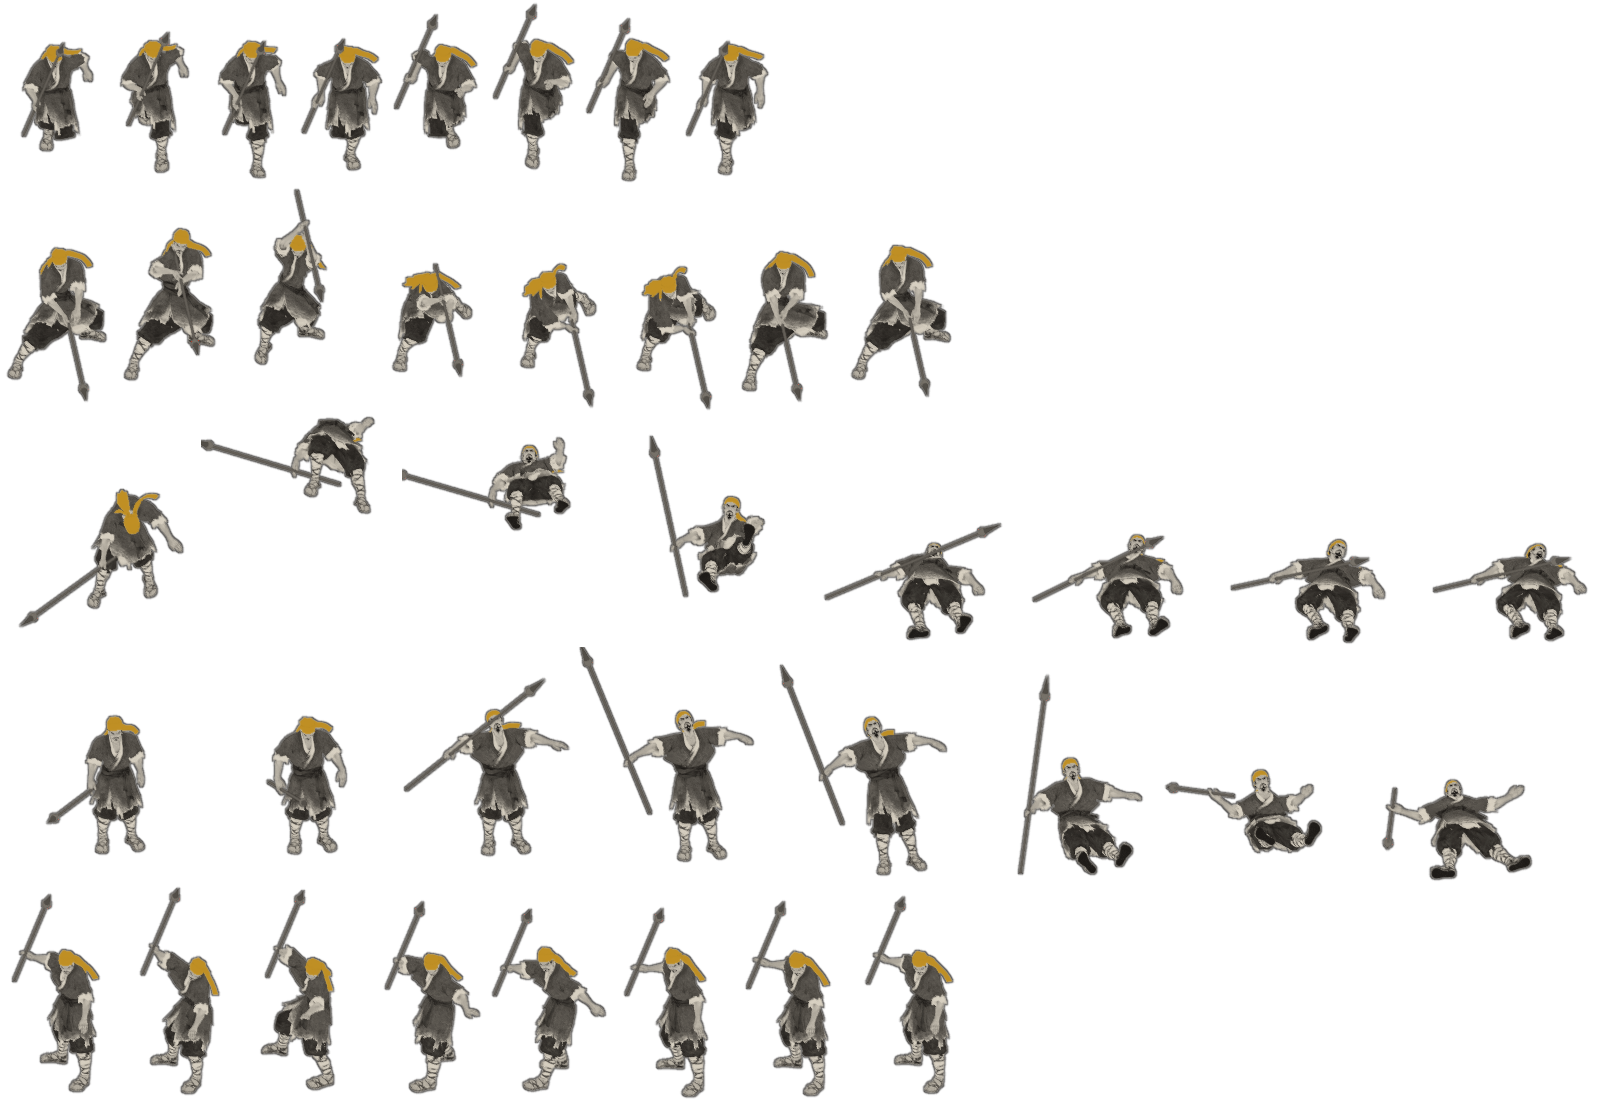
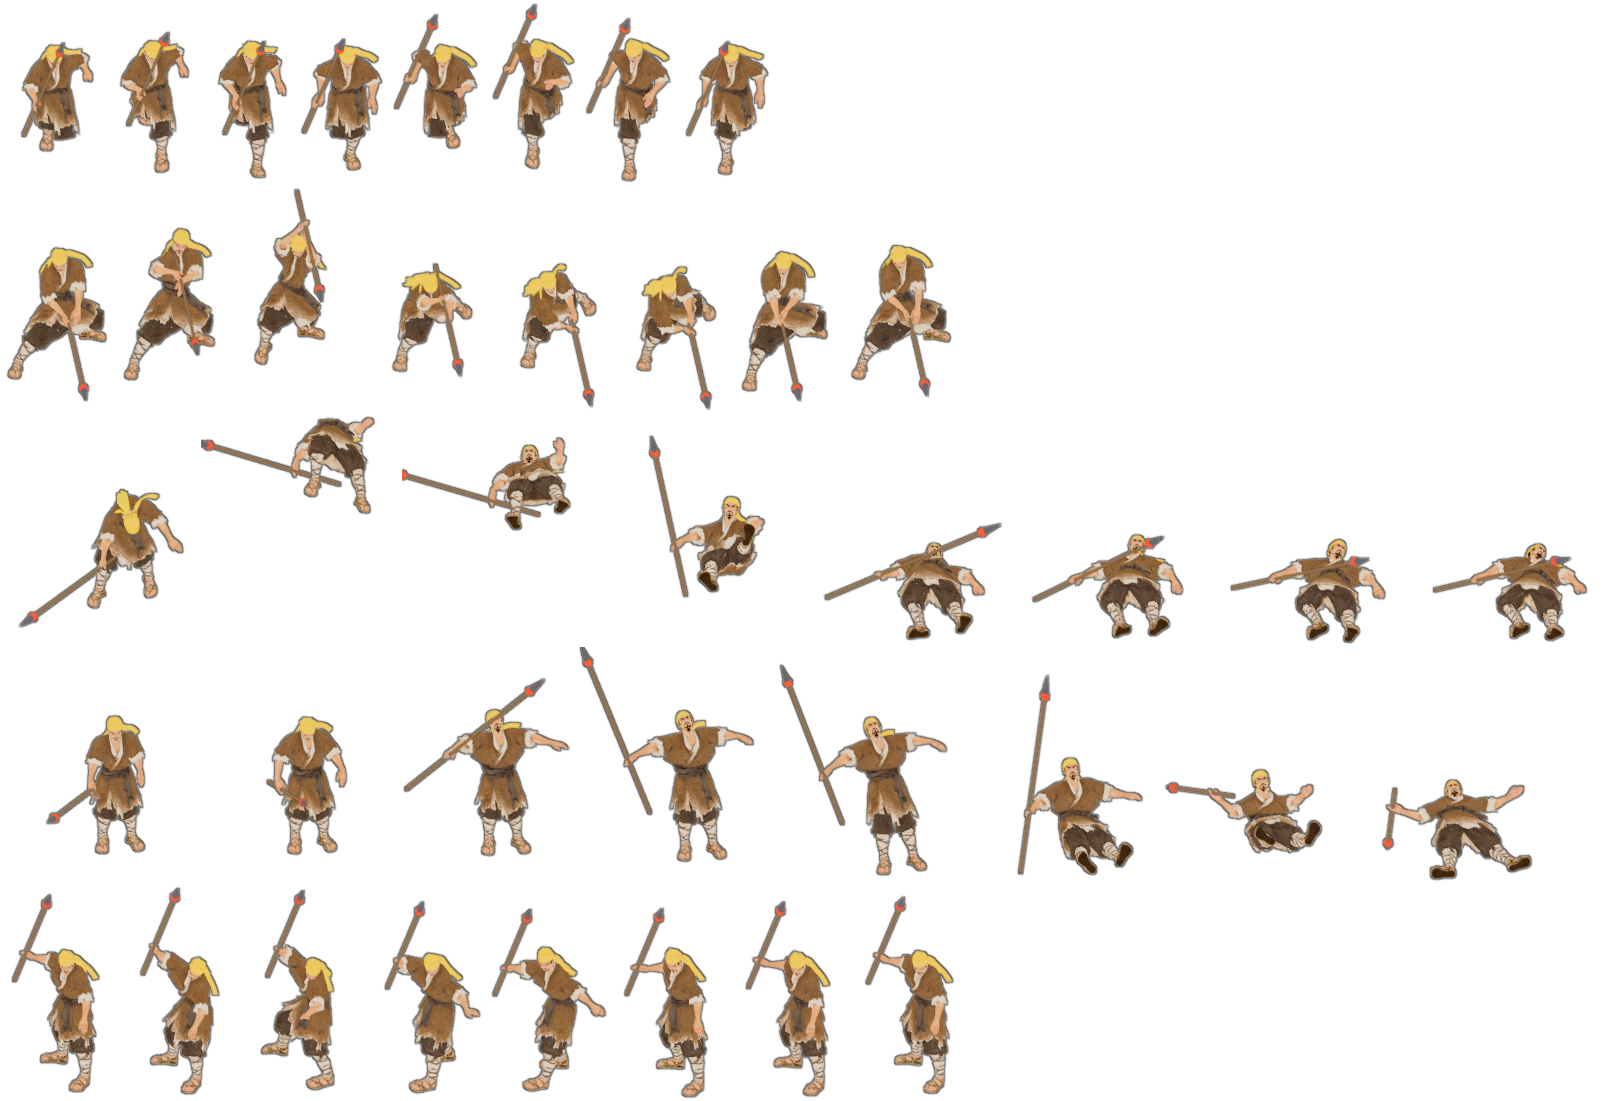
去水墨：11种兵种全彩重上色，黑墨烟改紫金妖气、青龙斩墨浪调亮

diff --git a/原型/墨流.js b/原型/墨流.js
@@ -11,7 +11,8 @@
 (function () {
 'use strict';
 const PALETTE = {                                                   // 墨的颜色：淡处、浓处、墨里的亮边（10-25 用户：「试下青金色」——石青打底、泥金勾边）
-  qingjin: { thin: [.24, .47, .56], dense: [.03, .16, .24], sheen: [.96, .78, .36], sheenAmt: .55 },
+  qingjin: { thin: [.42, .86, .74], dense: [.04, .45, .40], sheen: [1, .86, .40], sheenAmt: .65 },   // 10-26 用户：「不要水墨风格了」「墨烟特效可以改类似非墨烟特效」——青黑墨浪调成翠绿泛金的刀气（原 thin .24/.47/.56、dense .03/.16/.24）
+  yaoqi:   { thin: [.66, .45, .95], dense: [.30, .08, .48], sheen: [1, .84, .32], sheenAmt: .7 },     // 张角的妖气：紫烟金边（替掉原来的黑墨烟）
   ink:     { thin: [.30, .34, .36], dense: [.035, .035, .045], sheen: [.9, .95, 1], sheenAmt: .22 },
 };
 function create(opt = {}) {
@@ -119,7 +120,7 @@ void main(){ vUv = aPos * .5 + .5; vL = vUv - vec2(uTexel.x, 0.); vR = vUv + vec
   // 碎片（画在调用方的 2D 画布上，逻辑坐标）
   const rnd = (a, b) => a + (b - a) * Math.random();
   const rockPts = () => Array.from({ length: 6 }, (_, i) => { const a = i / 6 * 6.283 + rnd(-.3, .3), r = rnd(.6, 1); return [Math.cos(a) * r, Math.sin(a) * r * .8]; });
-  const flake = (x, y, vx, vy, col) => parts.push({ k: 'flake', x, y, vx, vy, g: 40, drag: 2.2, s: rnd(3, 5.5), rot: rnd(0, 6), spin: rnd(-9, 9), t: 0, life: rnd(.9, 1.5), c: col || (CFG.palette === 'qingjin' ? (Math.random() < .35 ? '#c9a24a' : '#0d2a38') : '#16130f') });
+  const flake = (x, y, vx, vy, col) => parts.push({ k: 'flake', x, y, vx, vy, g: 40, drag: 2.2, s: rnd(3, 5.5), rot: rnd(0, 6), spin: rnd(-9, 9), t: 0, life: rnd(.9, 1.5), c: col || (CFG.palette === 'qingjin' ? (Math.random() < .35 ? '#e8c050' : '#1f9a82') : '#16130f') });
   // GPT 画的刀气（10-25 用户看了程序画的弯刀：「你这项一个弧形，不行，可以接上gpt 那张图在里面吗？」）：和游戏同一张 img/fx_paint.png（工具/vfx/cut_paint.py 转的光），
   // blade 那一格是一道竖着的拱形刀光（外弧朝上）。量过：外沿弧心在格内 (197, 212)、半径 187；从左脚（约 99°）经顶部扫到右脚（约 38°）共 299°，绕 (197, 300) 转
   const PAINT = { img: new Image(), meta: null }; PAINT.img.src = (opt.base || '') + 'img/fx_paint.png'; fetch((opt.base || '') + 'img/fx_paint.json').then(r => r.json()).then(j => { PAINT.meta = j; }).catch(() => {});

diff --git a/原型/守关.html b/原型/守关.html
@@ -4387,7 +4387,7 @@ function fit() {
   cv.width = Math.round(W * RS); cv.height = Math.round(H * RS); cv.style.width = W * S + 'px'; cv.style.height = H * S + 'px';
   cv.style.marginTop = Math.max(0, (innerHeight - H * S) / 2) + 'px'; bakeAll(); spxInit();
   if (ML === null && window.Moliu) ML = Moliu.create({ W, H, pw: cv.width, ph: cv.height }) || false;
-  if (MLB === null && window.Moliu) { MLB = Moliu.create({ W, H, pw: cv.width, ph: cv.height }) || false; if (MLB) { MLB.cfg.palette = 'ink'; MLB.cfg.decay = [.9, 3.6, .85, 2.2]; } }
+  if (MLB === null && window.Moliu) { MLB = Moliu.create({ W, H, pw: cv.width, ph: cv.height }) || false; if (MLB) { MLB.cfg.palette = 'yaoqi';   /* 10-26 张角身边的黑墨烟改紫金妖气 */ MLB.cfg.decay = [.9, 3.6, .85, 2.2]; } }
 }
 (document.fonts ? Promise.race([document.fonts.load('40px "Ma Shan Zheng"'), new Promise(r => setTimeout(r, 2500))]) : Promise.resolve()).then(boot, boot);
 })();

diff --git a/工具/blender/ink_post.py b/工具/blender/ink_post.py
@@ -3,9 +3,11 @@
 # 用法：python3 ink_post.py <输入目录> <输出目录> [band=ochre|red] [keep=0.5] [line=3] [halo=0]
 #   band=red：头巾染成朱红（力士用，10-24 用户要和黄巾兵分开）
 #   line：墨线粗细（滤镜边长，奇数）；halo：人物外面一圈纸色光晕的宽度（像素，城头武将用，把人从城砖上托出来）
+#   vivid：颜色饱和度倍数（10-26 起兵种都用 keep=1 vivid=1.7，不再水墨）
 #   keep：留多少原来的颜色（城头武将用，关羽的绿、张飞的黑红、刘备的白蓝要认得出），0 就是全墨色
 import os, sys
-from PIL import Image, ImageChops, ImageFilter, ImageMath
+from PIL import Image, ImageChops, ImageEnhance, ImageFilter, ImageMath
+VIVID = 0; RETINT = 0
 
 INK, PAPER, OCHRE, CINN = (29, 26, 23), (238, 230, 214), (214, 160, 40), (178, 63, 42)
 BANDS = {'ochre': OCHRE, 'red': (196, 52, 34), 'ink': (52, 46, 40)}          # ink：头巾染黑（衙役）
@@ -29,6 +31,8 @@ def ink(im, band='ochre', keep=0.0, line=3, halo=0):
     base = Image.composite(ych, base, yel)
     base = Image.composite(Image.new('RGB', im.size, CINN), base, red)
     if keep > 0: base = Image.blend(base, im.convert('RGB'), keep)
+    if VIVID: base = ImageEnhance.Contrast(ImageEnhance.Color(base).enhance(VIVID)).enhance(1.12)
+    if VIVID and RETINT: base = Image.composite(ych, base, yel)                           # retint=1：全彩之上把头巾再染成 band 色（邓茂、力士红巾，衙役黑巾），同一个模型的兵种分得开   # vivid=1.7：颜色拉鲜、反差加一点，大色块（10-26 用户：「不要水墨风格了」）
     body = base.copy(); body.putalpha(a)
     big = a.filter(ImageFilter.MaxFilter(line))
     edge = ImageChops.subtract(big, a).filter(ImageFilter.GaussianBlur(.4))
@@ -43,7 +47,7 @@ def ink(im, band='ochre', keep=0.0, line=3, halo=0):
 
 if __name__ == '__main__':
     src, dst = sys.argv[1], sys.argv[2]; os.makedirs(dst, exist_ok=True)
-    kv = dict(a.split('=', 1) for a in sys.argv[3:]); band = kv.get('band', 'ochre'); keep = float(kv.get('keep', 0)); line = int(kv.get('line', 3)); halo = int(kv.get('halo', 0))
+    kv = dict(a.split('=', 1) for a in sys.argv[3:]); band = kv.get('band', 'ochre'); keep = float(kv.get('keep', 0)); line = int(kv.get('line', 3)); halo = int(kv.get('halo', 0)); VIVID = float(kv.get('vivid', 0)); RETINT = int(kv.get('retint', 0))
     fs = sorted(f for f in os.listdir(src) if f.endswith('.png'))
     for f in fs: ink(Image.open(os.path.join(src, f)), band, keep, line, halo).save(os.path.join(dst, f))
     print('着色', len(fs), '帧 →', dst)

diff --git a/设计/方案初稿.md b/设计/方案初稿.md
@@ -543,6 +543,7 @@
   - **简雍重画**（用户：「这个为什么模糊？……让chatGPT 照着重新生成一张」）：原图本身糊、衣服一层碎点，按同样姿势服装重画成干净大色块，立绘、头像都换了。
   - **剧情核对**（用户：「这几个你跑一次：剧情图和台词没有逐张逐句核对……几个敌将没有自己的画像……游戏的正式名字还没定」）：子代理逐张看 30 张图、逐句读台词。图：13 张重画（张飞没红头巾、简雍曹操孙坚和立绘不符、邓茂潘凤画得像张飞、狼骑画成骑狼、现代精装书、问号符号、张角脸被对话框挡）；第 25 张有摩托（用户：「为什么会有个摩托？」）已重画。台词：无错字、无超长句；改了九处（序章奶茶那句挪位、「一章打完」改「这一仗打完」、华雄叫骂和「酒还温」矛盾改掉、第 28 关吕布又回关前改成笑点、烧烤、十八路、「卧槽」改「我去」、「按剧本」减半、关羽健身梗），加了四处笑点（邹靖跟到汜水关抢功、张飞「游戏里一刀一个」「你开了修改器」、关羽「撞门镜头没拍到」、卢植来信「学会对齐」）。敌将：胡轸、李傕、高顺和三种骑兵 10-25 就有自己的 Veo 图集，之前说「借图」是照旧记录写的，没核实。
   - **剧情里学会招式**（用户：「学会技能时（剧情中）要有一个特效之类的」）：「某某学会了……」那句演这人的大招特写，大字招名下写「习得」，配招式声和锣，演完才能翻（`STORY_LEARN`）。
+  - **全面去水墨**（用户：「把所有不是大色块和鲜艳颜色的重新画，不要水墨风格了」「墨烟特效可以改类似非墨烟特效」「这三张也换成这种颜色风格」）：11 种水墨兵种（黄巾兵、力士、弓手、程远志、邓茂、衙役、术士、西凉兵、飞熊军、陷阵营、百姓）用原始渲染帧重新上全彩（`ink_post.py keep=1 vivid=1.7`，邓茂、力士、衙役 `retint=1` 保留红巾黑巾好分），水墨版备份在草稿目录；张角的黑墨烟改紫金妖气（`yaoqi`），青龙斩青黑墨浪调成翠绿泛金；主页刘关张、平原底图、山谷底图排队让 ChatGPT 重画成鲜艳厚涂。
   - **「开封」改「研习」**（用户：「什么叫开封武将？」）：招式进阶一律叫研习。
   - **第一天能打到哪**（用户问）：`daily_sim.py` 改成和游戏一样「打通第一关当天就出军务」后：天天玩 45 分钟第一天打到第 8 关（时间用完）；玩 90 分钟以上的打到第 10 关、卡在第 11 关孟德献刀（要关羽「龙鳞破甲」残页 12，第一天只拿得到 9 页，第 9 关剑印先花 6 页），第二天过。
   - 手机上都没看过。
